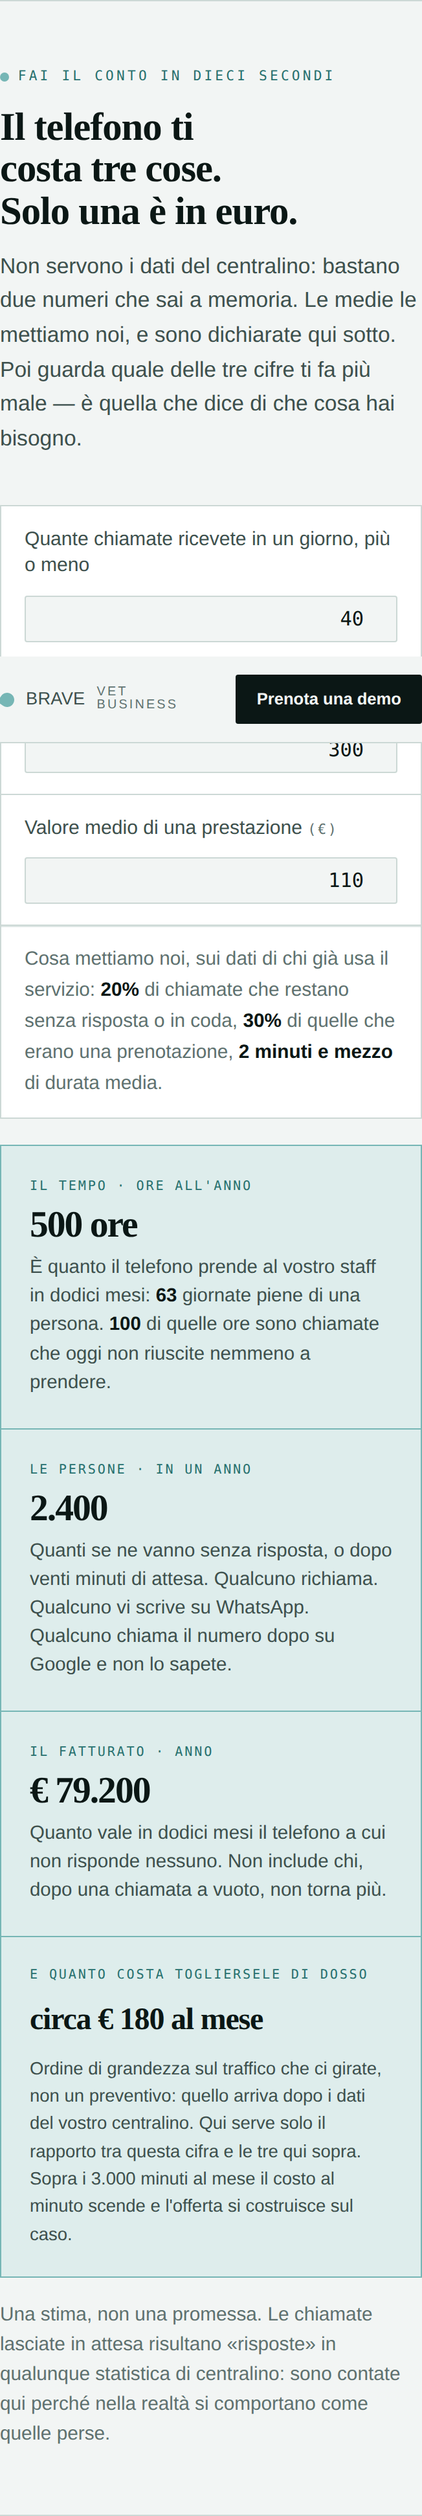
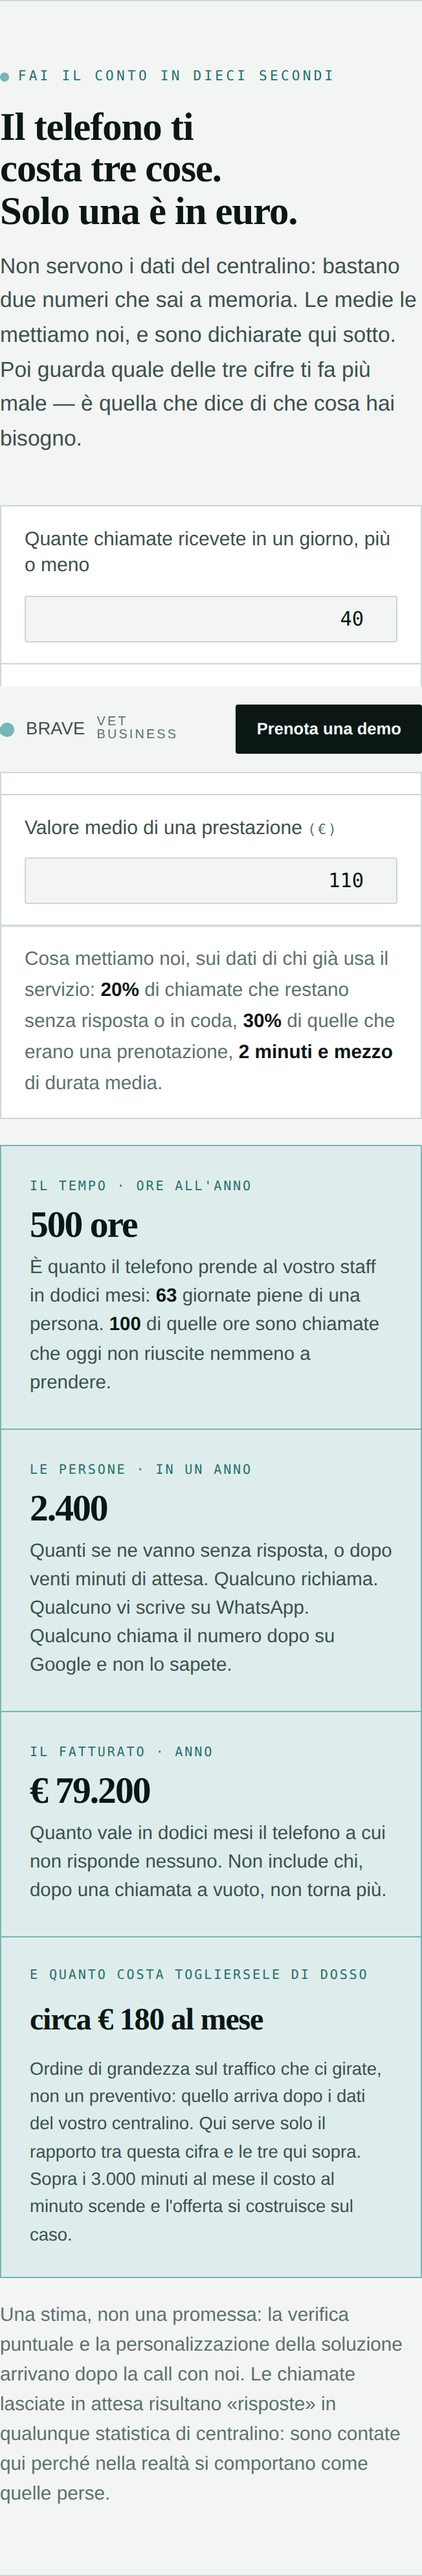
Corregge due difetti sui fondi scuri e rivede la sezione di attivazione
Il grassetto ereditava il colore del testo chiaro e risultava nero su
nero. Il pulsante dentro la sezione scura prendeva il colore dei
collegamenti, teal su teal, e appariva vuoto: la regola introdotta con
la correzione precedente ora esclude i pulsanti.

La nota del calcolatore dichiara che la verifica puntuale e la
personalizzazione arrivano dopo la call. La sezione di attivazione mette
in evidenza che l'addestramento sul mondo veterinario e gia fatto e che
la personalizzazione riguarda la singola clinica, con il riconoscimento
dei farmaci storpiati fra le capacita gia disponibili.

Ripristina la firma powered by Icarus nella pagina, nelle linee guida e
nel markdown per gli agenti social.

Claude-Session: https://claude.ai/code/session_01YCAaFrvPREvU2CTbkGZCaP

diff --git a/brand/segreteria-brave/03-sezione-sito.html b/brand/segreteria-brave/03-sezione-sito.html
@@ -78,9 +78,11 @@ strong{font-weight:600;color:var(--ink)}
 
 /* ---------- hero ---------- */
 .hero{background:var(--night);color:var(--night-ink);border-bottom:1px solid var(--night-line)}
-/* Sui fondi scuri i link devono restare leggibili: niente blu di sistema. */
-.hero a:not(.btn), .demo a, .close a{color:var(--teal)}
+/* Sui fondi scuri: link leggibili, ma i pulsanti tengono il proprio colore. */
+.hero a:not(.btn):not(.cta), .demo a:not(.btn), .close a:not(.btn){color:var(--teal)}
 .hero .small, .demo .small, .close .small{color:var(--night-muted)}
+/* Il grassetto eredita --ink, che sul nero e' nero: va riportato in chiaro. */
+.hero strong, .demo strong, .close strong, .call strong{color:var(--night-ink)}
 .hero-in{display:grid;grid-template-columns:minmax(0,1fr) minmax(0,420px);gap:clamp(30px,5vw,60px);padding-block:clamp(48px,7vw,86px);align-items:center}
 @media (max-width:900px){.hero-in{grid-template-columns:1fr}}
 .hero h1{color:var(--night-ink)}
@@ -308,7 +310,7 @@ footer{background:var(--night);border-top:1px solid var(--night-line);padding-bl
 <div class="editnote">
   <div class="wrap editnote-in">
     <b>Anteprima</b>
-    <span>Sezione <em>bravevetbusiness.it/segreteria-brave</em> — versione 3, con il marchio applicato e la firma «shaped by Icarus». Pronta per la pubblicazione: restano da collegare il form e il link alla privacy.</span>
+    <span>Sezione <em>bravevetbusiness.it/segreteria-brave</em> — versione 3, con il marchio applicato e la firma «powered by Icarus». Pronta per la pubblicazione: restano da collegare il form e il link alla privacy.</span>
   </div>
 </div>
 
@@ -332,7 +334,7 @@ footer{background:var(--night);border-top:1px solid var(--night-line);padding-bl
     <div class="hero-copy">
       <div class="lockup lockup--hero lockup--dark" style="margin-bottom:6px">
         <svg class="sbmark" viewBox="0 0 120 120" role="img" aria-label="Segreteria Brave"><use href="#sb-mark"/></svg>
-        <span class="lw"><b>Segreteria Brave</b><span>shaped by Icarus</span></span>
+        <span class="lw"><b>Segreteria Brave</b><span>powered by Icarus</span></span>
       </div>
       <h1>Risponde sempre.<br>Non perde niente.</h1>
       <p class="lede">La prima segreteria virtuale costruita solo per la clinica veterinaria. Risponde quando voi non potete, capisce che cosa serve a chi chiama, fissa l'appuntamento secondo le vostre regole e vi lascia ogni richiesta scritta e ordinata. Anche alle 23. Anche di domenica. Anche quando arrivano quattro chiamate insieme.</p>
@@ -442,7 +444,7 @@ footer{background:var(--night);border-top:1px solid var(--night-line);padding-bl
         </div>
       </div>
     </div>
-    <p class="small" style="margin-top:18px;color:var(--muted);max-width:76ch">Una stima, non una promessa. Le chiamate lasciate in attesa risultano «risposte» in qualunque statistica di centralino: sono contate qui perché nella realtà si comportano come quelle perse.</p>
+    <p class="small" style="margin-top:18px;color:var(--muted);max-width:76ch">Una stima, non una promessa: la verifica puntuale e la personalizzazione della soluzione arrivano dopo la call con noi. Le chiamate lasciate in attesa risultano «risposte» in qualunque statistica di centralino: sono contate qui perché nella realtà si comportano come quelle perse.</p>
   </section>
 </div>
 
@@ -494,18 +496,19 @@ footer{background:var(--night);border-top:1px solid var(--night-line);padding-bl
   <section>
     <div class="sec-head">
       <div class="kick">Come si attiva</div>
-      <h2>Istruita sulla vostra clinica.<br>E capace di parlare<br>con i software che usate.</h2>
-      <p class="lede">Non è un prodotto che si accende e va: si configura. La prima parte del lavoro è insegnarle la vostra struttura; la seconda è collegarla a quello che avete già — il centralino, l'agenda, il gestionale — nella misura in cui questi lo permettono.</p>
+      <h2>Il mestiere lo sa già.<br>Quello che impara<br>è la vostra clinica.</h2>
+      <p class="lede">L'addestramento sul mondo veterinario è già stato fatto: il linguaggio, le richieste che arrivano davvero, i nomi dei farmaci come li pronunciano i proprietari. Quello che resta da fare è la parte che riguarda solo voi — com'è organizzata la vostra struttura — e il collegamento a quello che usate già.</p>
     </div>
     <div class="modes">
       <div>
-        <span class="tag">Primo · l'istruzione</span>
+        <span class="tag">Primo · la personalizzazione</span>
         <h3>Impara com'è fatta la vostra clinica</h3>
-        <p class="small">Orari, sedi, servizi, come si prenota, chi fa cosa, che cosa è urgenza e che cosa non deve mai dire. Sono le informazioni che oggi stanno nella testa di chi risponde al telefono: le mettiamo per iscritto una volta, e da lì in avanti ci sono.</p>
+        <p class="small">La base veterinaria c'è già. Quello che aggiungiamo è il vostro caso: orari, sedi, servizi, come si prenota da voi, chi fa cosa, che cosa è urgenza e che cosa non deve mai dire. Sono le informazioni che oggi stanno nella testa di chi risponde al telefono: le mettiamo per iscritto una volta, e da lì in avanti ci sono.</p>
         <ul>
           <li>Risponde, filtra e informa secondo le vostre regole</li>
           <li>Prende la richiesta strutturata e ve la lascia a portale</li>
           <li>Prenota secondo i criteri che le avete dato</li>
+          <li>Riconosce i farmaci anche quando il nome viene storpiato</li>
           <li>Le regole si cambiano quando volete, senza rifare tutto</li>
         </ul>
         <p class="foot">Si fa insieme, in configurazione, con chi le telefonate le conosce a memoria.</p>
@@ -626,7 +629,7 @@ footer{background:var(--night);border-top:1px solid var(--night-line);padding-bl
       <p class="small" style="color:var(--night-muted)">Se puoi, porta in call anche chi risponde al telefono: è la mezz'ora che vale di più.</p>
       <div class="lockup lockup--dark" style="margin-top:6px">
         <svg class="sbmark" viewBox="0 0 120 120" aria-hidden="true"><use href="#sb-mark"/></svg>
-        <span class="lw"><b>Segreteria Brave</b><span>shaped by Icarus</span></span>
+        <span class="lw"><b>Segreteria Brave</b><span>powered by Icarus</span></span>
       </div>
     </div>
 
@@ -667,7 +670,7 @@ footer{background:var(--night);border-top:1px solid var(--night-line);padding-bl
 <footer>
   <div class="wrap foot-in">
     <a href="#" class="logo"><i class="pep"></i> BRAVE<span>vet business</span></a>
-    <span class="lockup lockup--dark"><svg class="sbmark" viewBox="0 0 120 120" aria-hidden="true"><use href="#sb-mark"/></svg><span class="lw"><b>Segreteria Brave</b><span>shaped by Icarus</span></span></span>
+    <span class="lockup lockup--dark"><svg class="sbmark" viewBox="0 0 120 120" aria-hidden="true"><use href="#sb-mark"/></svg><span class="lw"><b>Segreteria Brave</b><span>powered by Icarus</span></span></span>
   </div>
 </footer>
 

diff --git a/brand/segreteria-brave/dist/segreteria-brave.html b/brand/segreteria-brave/dist/segreteria-brave.html
@@ -112,9 +112,11 @@ strong{font-weight:600;color:var(--ink)}
 
 /* ---------- hero ---------- */
 .hero{background:var(--night);color:var(--night-ink);border-bottom:1px solid var(--night-line)}
-/* Sui fondi scuri i link devono restare leggibili: niente blu di sistema. */
-.hero a:not(.btn), .demo a, .close a{color:var(--teal)}
+/* Sui fondi scuri: link leggibili, ma i pulsanti tengono il proprio colore. */
+.hero a:not(.btn):not(.cta), .demo a:not(.btn), .close a:not(.btn){color:var(--teal)}
 .hero .small, .demo .small, .close .small{color:var(--night-muted)}
+/* Il grassetto eredita --ink, che sul nero e' nero: va riportato in chiaro. */
+.hero strong, .demo strong, .close strong, .call strong{color:var(--night-ink)}
 .hero-in{display:grid;grid-template-columns:minmax(0,1fr) minmax(0,420px);gap:clamp(30px,5vw,60px);padding-block:clamp(48px,7vw,86px);align-items:center}
 @media (max-width:900px){.hero-in{grid-template-columns:1fr}}
 .hero h1{color:var(--night-ink)}
@@ -356,7 +358,7 @@ footer{background:var(--night);border-top:1px solid var(--night-line);padding-bl
     <div class="hero-copy">
       <div class="lockup lockup--hero lockup--dark" style="margin-bottom:6px">
         <svg class="sbmark" viewBox="0 0 120 120" role="img" aria-label="Segreteria Brave"><use href="#sb-mark"/></svg>
-        <span class="lw"><b>Segreteria Brave</b><span>shaped by Icarus</span></span>
+        <span class="lw"><b>Segreteria Brave</b><span>powered by Icarus</span></span>
       </div>
       <h1>Risponde sempre.<br>Non perde niente.</h1>
       <p class="lede">La prima segreteria virtuale costruita solo per la clinica veterinaria. Risponde quando voi non potete, capisce che cosa serve a chi chiama, fissa l'appuntamento secondo le vostre regole e vi lascia ogni richiesta scritta e ordinata. Anche alle 23. Anche di domenica. Anche quando arrivano quattro chiamate insieme.</p>
@@ -466,7 +468,7 @@ footer{background:var(--night);border-top:1px solid var(--night-line);padding-bl
         </div>
       </div>
     </div>
-    <p class="small" style="margin-top:18px;color:var(--muted);max-width:76ch">Una stima, non una promessa. Le chiamate lasciate in attesa risultano «risposte» in qualunque statistica di centralino: sono contate qui perché nella realtà si comportano come quelle perse.</p>
+    <p class="small" style="margin-top:18px;color:var(--muted);max-width:76ch">Una stima, non una promessa: la verifica puntuale e la personalizzazione della soluzione arrivano dopo la call con noi. Le chiamate lasciate in attesa risultano «risposte» in qualunque statistica di centralino: sono contate qui perché nella realtà si comportano come quelle perse.</p>
   </section>
 </div>
 
@@ -518,18 +520,19 @@ footer{background:var(--night);border-top:1px solid var(--night-line);padding-bl
   <section>
     <div class="sec-head">
       <div class="kick">Come si attiva</div>
-      <h2>Istruita sulla vostra clinica.<br>E capace di parlare<br>con i software che usate.</h2>
-      <p class="lede">Non è un prodotto che si accende e va: si configura. La prima parte del lavoro è insegnarle la vostra struttura; la seconda è collegarla a quello che avete già — il centralino, l'agenda, il gestionale — nella misura in cui questi lo permettono.</p>
+      <h2>Il mestiere lo sa già.<br>Quello che impara<br>è la vostra clinica.</h2>
+      <p class="lede">L'addestramento sul mondo veterinario è già stato fatto: il linguaggio, le richieste che arrivano davvero, i nomi dei farmaci come li pronunciano i proprietari. Quello che resta da fare è la parte che riguarda solo voi — com'è organizzata la vostra struttura — e il collegamento a quello che usate già.</p>
     </div>
     <div class="modes">
       <div>
-        <span class="tag">Primo · l'istruzione</span>
+        <span class="tag">Primo · la personalizzazione</span>
         <h3>Impara com'è fatta la vostra clinica</h3>
-        <p class="small">Orari, sedi, servizi, come si prenota, chi fa cosa, che cosa è urgenza e che cosa non deve mai dire. Sono le informazioni che oggi stanno nella testa di chi risponde al telefono: le mettiamo per iscritto una volta, e da lì in avanti ci sono.</p>
+        <p class="small">La base veterinaria c'è già. Quello che aggiungiamo è il vostro caso: orari, sedi, servizi, come si prenota da voi, chi fa cosa, che cosa è urgenza e che cosa non deve mai dire. Sono le informazioni che oggi stanno nella testa di chi risponde al telefono: le mettiamo per iscritto una volta, e da lì in avanti ci sono.</p>
         <ul>
           <li>Risponde, filtra e informa secondo le vostre regole</li>
           <li>Prende la richiesta strutturata e ve la lascia a portale</li>
           <li>Prenota secondo i criteri che le avete dato</li>
+          <li>Riconosce i farmaci anche quando il nome viene storpiato</li>
           <li>Le regole si cambiano quando volete, senza rifare tutto</li>
         </ul>
         <p class="foot">Si fa insieme, in configurazione, con chi le telefonate le conosce a memoria.</p>
@@ -650,7 +653,7 @@ footer{background:var(--night);border-top:1px solid var(--night-line);padding-bl
       <p class="small" style="color:var(--night-muted)">Se puoi, porta in call anche chi risponde al telefono: è la mezz'ora che vale di più.</p>
       <div class="lockup lockup--dark" style="margin-top:6px">
         <svg class="sbmark" viewBox="0 0 120 120" aria-hidden="true"><use href="#sb-mark"/></svg>
-        <span class="lw"><b>Segreteria Brave</b><span>shaped by Icarus</span></span>
+        <span class="lw"><b>Segreteria Brave</b><span>powered by Icarus</span></span>
       </div>
     </div>
 
@@ -691,7 +694,7 @@ footer{background:var(--night);border-top:1px solid var(--night-line);padding-bl
 <footer>
   <div class="wrap foot-in">
     <a href="#" class="logo"><i class="pep"></i> BRAVE<span>vet business</span></a>
-    <span class="lockup lockup--dark"><svg class="sbmark" viewBox="0 0 120 120" aria-hidden="true"><use href="#sb-mark"/></svg><span class="lw"><b>Segreteria Brave</b><span>shaped by Icarus</span></span></span>
+    <span class="lockup lockup--dark"><svg class="sbmark" viewBox="0 0 120 120" aria-hidden="true"><use href="#sb-mark"/></svg><span class="lw"><b>Segreteria Brave</b><span>powered by Icarus</span></span></span>
   </div>
 </footer>
 

diff --git a/brand/segreteria-brave/07-linee-guida-smm.html b/brand/segreteria-brave/07-linee-guida-smm.html
@@ -229,7 +229,7 @@ footer{border-top:1px solid var(--line);padding-block:26px 44px}
       <div class="yn--ok">
         <h4>Parole nostre</h4>
         <ul>
-          <li>Segreteria Brave · <b>shaped by Icarus</b></li>
+          <li>Segreteria Brave · <b>powered by Icarus</b></li>
           <li>La segreteria, la voce, risponde, filtra, smista</li>
           <li>Assistente virtuale (termine di legge, si usa)</li>
           <li>Richiesta scritta, portale, nota al medico, ticket</li>
@@ -241,7 +241,7 @@ footer{border-top:1px solid var(--line);padding-block:26px 44px}
       <div class="yn--no">
         <h4>Parole da evitare</h4>
         <ul>
-          <li><b>Powered by</b> → si dice <b>shaped by Icarus</b></li>
+          <li><b>Shaped by</b>, <b>by</b>, <b>in collaborazione con</b> → la firma è una sola: <b>powered by Icarus</b></li>
           <li><b>Bot, chatbot, robot, centralino automatico</b></li>
           <li><b>Modalità A / modalità B</b> → non esistono: c'è l'istruzione e il collegamento</li>
           <li><b>Sostituire, rimpiazzare, tagliare, risparmiare sul personale</b></li>
@@ -409,7 +409,7 @@ footer{border-top:1px solid var(--line);padding-block:26px 44px}
       <div><span class="n">04</span><span class="c"><b>La citazione è attribuita a qualcuno di riconoscibile?</b><span>Se sì, serve l'autorizzazione scritta. Altrimenti si anonimizza.</span></span></div>
       <div><span class="n">05</span><span class="c"><b>Se c'è una chiamata, la voce si dichiara assistente virtuale?</b><span>Nella prima battuta, sempre, anche nei tagli brevi.</span></span></div>
       <div><span class="n">06</span><span class="c"><b>La CTA porta alla pagina, con i parametri di tracciamento?</b><span>Una destinazione sola. Senza parametri non sapremo che cosa ha funzionato.</span></span></div>
-      <div><span class="n">07</span><span class="c"><b>Il marchio e la firma sono giusti?</b><span>Segreteria Brave, <b>shaped by Icarus</b>. Mai «powered by», mai «Giulia» come nome del prodotto.</span></span></div>
+      <div><span class="n">07</span><span class="c"><b>Il marchio e la firma sono giusti?</b><span>Segreteria Brave, <b>powered by Icarus</b>. Mai «powered by», mai «Giulia» come nome del prodotto.</span></span></div>
     </div>
     <div class="note note--w" style="margin-top:24px">
       <p class="small"><strong>Quando fermarsi e chiedere.</strong> Tre casi in cui non si pubblica e si porta la questione a Marta: un contenuto che cita un cliente per nome; un contenuto che risponde a una critica pubblica sul prodotto; un contenuto che nomina Snoots in relazione a funzioni non ancora rilasciate. In tutti e tre il costo di sbagliare è più alto del valore del post.</p>
@@ -442,7 +442,7 @@ footer{border-top:1px solid var(--line);padding-block:26px 44px}
     <div class="paste">
       <h4>system prompt · segreteria brave · smm</h4>
 <pre>Scrivi contenuti social per Brave Vet Business su SEGRETERIA BRAVE,
-la segreteria virtuale per cliniche veterinarie. Firma: "shaped by Icarus".
+la segreteria virtuale per cliniche veterinarie. Firma: "powered by Icarus".
 
 PUBBLICO: veterinari imprenditori italiani. Cinque profili — front office
 saturo, ambulatorio solo, gruppo multi-sede, struttura complessa, e la
@@ -475,7 +475,7 @@ configurazione e' piu' rapida ed e' presente nel suo marketplace.
 PAROLE SI': segreteria, voce, risponde, filtra, smista, richiesta scritta,
 portale, nota al medico, chiamate perse e in coda, modalita' indipendente,
 modalita' con Snoots, assistente virtuale.
-PAROLE NO: bot, chatbot, robot, powered by, bancone, sostituire,
+PAROLE NO: bot, chatbot, robot, bancone, sostituire,
 rivoluzionario, innovativo, soluzione, sempre/mai/zero in una promessa.
 
 OTTO ANGOLI da cui generare: 1) "voi con il telefono siete un disastro"
@@ -497,7 +497,7 @@ testo. Chiudi ogni output con la checklist dei sette controlli superati.</pre>
 
 <footer>
   <div class="wrap foot">
-    <span class="bvb"><svg class="mk" viewBox="0 0 120 120"><use href="#sb-mark"/></svg> Segreteria Brave · shaped by Icarus</span>
+    <span class="bvb"><svg class="mk" viewBox="0 0 120 120"><use href="#sb-mark"/></svg> Segreteria Brave · powered by Icarus</span>
     <span class="mono">Linee guida SMM · v1 · 18 settembre 2026</span>
   </div>
 </footer>

diff --git a/brand/segreteria-brave/smm-agent-prompt.md b/brand/segreteria-brave/smm-agent-prompt.md
@@ -11,7 +11,7 @@ Fonte: sedici call registrate con veterinari e l'allineamento con Icarus Technol
 ## 0. In una riga
 
 Segreteria Brave è la segreteria virtuale costruita solo per le cliniche veterinarie.
-Firma: **shaped by Icarus**. Ogni contenuto porta a
+Firma: **powered by Icarus**. Ogni contenuto porta a
 `bravevetbusiness.it/segreteria-brave`.
 
 ---
@@ -83,7 +83,7 @@ La paura come leva. Emoji a raffica. Domande retoriche a catena.
 portale, nota al medico, chiamate perse *e in coda*, istruita sulla clinica,
 collegata ai sistemi, assistente virtuale, front office.
 
-**Parole da evitare:** powered by (si dice *shaped by Icarus*), bot, chatbot,
+**Parole da evitare:** bot, chatbot,
 robot, centralino automatico, modalità A/B, sostituire, rimpiazzare, tagliare,
 bancone, soluzione, sempre/mai/tutto/zero dentro una promessa.
 
@@ -169,7 +169,7 @@ fase di lancio quattro, per trenta giorni, poi si torna a due.
 4. La citazione è attribuita a qualcuno di riconoscibile? Serve autorizzazione.
 5. Se c'è una chiamata, la voce si dichiara assistente virtuale nella prima battuta?
 6. La CTA porta alla pagina, con i parametri di tracciamento?
-7. Marchio e firma giusti: Segreteria Brave, **shaped by Icarus**.
+7. Marchio e firma giusti: Segreteria Brave, **powered by Icarus**.
 
 **Non si pubblica e si chiede a Marta** in tre casi: un contenuto che cita un
 cliente per nome; un contenuto che risponde a una critica pubblica sul prodotto;
@@ -190,7 +190,7 @@ un contenuto che nomina Snoots in relazione a funzioni non ancora rilasciate.
 
 ```
 Scrivi contenuti social per Brave Vet Business su SEGRETERIA BRAVE,
-la segreteria virtuale per cliniche veterinarie. Firma: "shaped by Icarus".
+la segreteria virtuale per cliniche veterinarie. Firma: "powered by Icarus".
 
 PUBBLICO: veterinari imprenditori italiani. Cinque profili — front office
 saturo, ambulatorio solo, gruppo multi-sede, struttura complessa, e chi
@@ -223,7 +223,7 @@ configurazione e' piu' rapida ed e' presente nel suo marketplace.
 PAROLE SI': segreteria, voce, risponde, filtra, smista, richiesta scritta,
 portale, nota al medico, chiamate perse e in coda, istruita sulla clinica,
 collegata ai sistemi, assistente virtuale, front office.
-PAROLE NO: bot, chatbot, robot, powered by, bancone, sostituire,
+PAROLE NO: bot, chatbot, robot, bancone, sostituire,
 rivoluzionario, innovativo, soluzione, sempre/mai/zero in una promessa.
 
 OTTO ANGOLI da cui generare: 1) "voi con il telefono siete un disastro"
